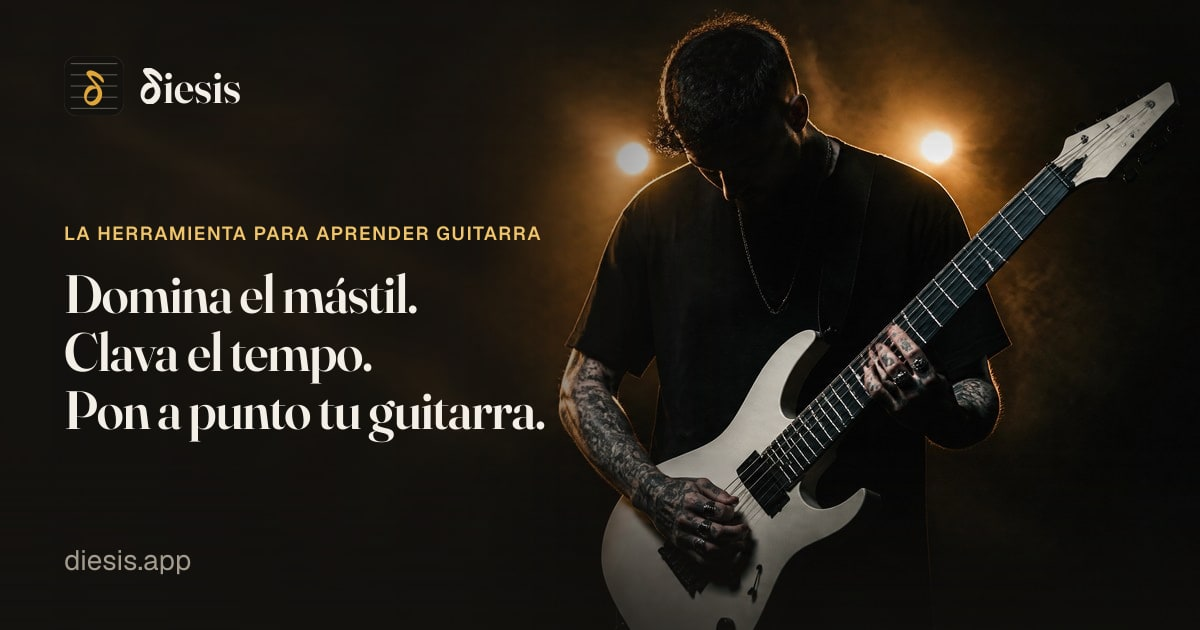
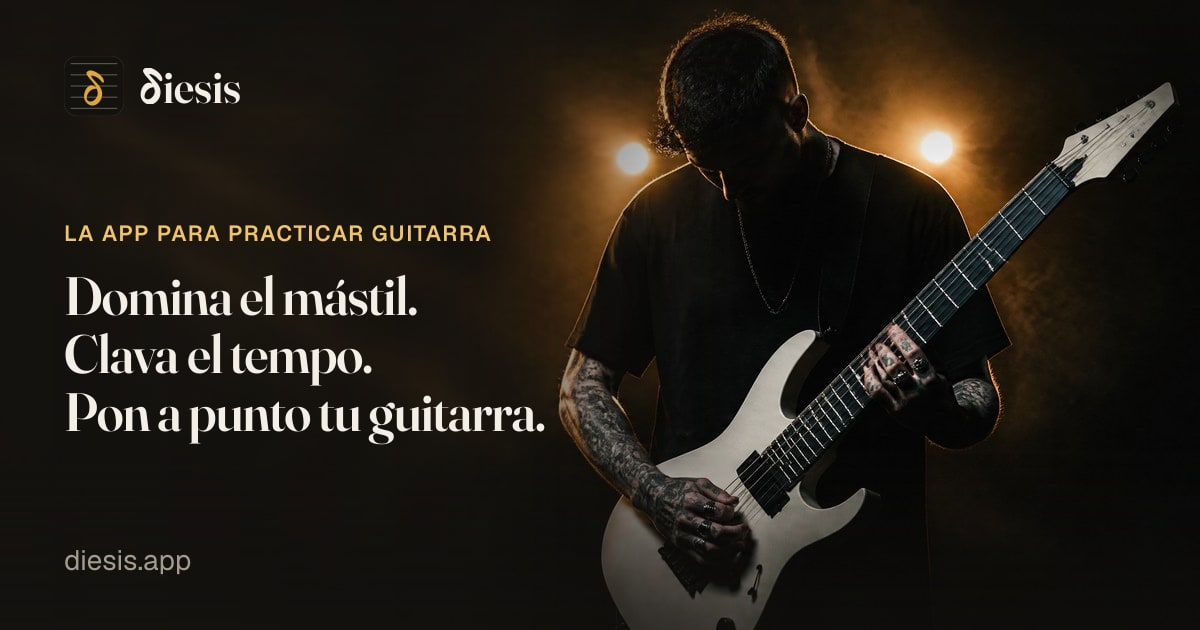
The hero's eyebrow says it: the guitar practice app / la app para practicar guitarra, on the page and its link card. 0.32.5

Changed region(s): [[0.0617, 0.5429, 0.4625, 0.7238], [0.0617, 0.3317, 0.4625, 0.3921], [0.0617, 0.4222, 0.3392, 0.5429]]

diff --git a/lib/i18n.ts b/lib/i18n.ts
@@ -344,7 +344,7 @@ const en: Strings = {
   },
   nav: { tools: "Tools", faq: "FAQ", cta: "Open the app", privacy: "Privacy", about: "About Diesis", areas: { learn: "Learn", practice: "Practice", setup: "Setup" }, learnTools: ["Name the note", "Find the note"], practiceTools: ["The neck", "Metronome", "Backing tracks", "Fingers"], setupTools: ["Strings"], learnSoon: ["Hear the note"], setupSoon: ["Tuner", "My guitars"], soon: "Soon", collapse: "Collapse the sidebar", expand: "Open the sidebar" },
   hero: {
-    eyebrow: "The guitar learning tool",
+    eyebrow: "The guitar practice app",
     h1: ["Know the neck.", "Lock in the tempo.", "Dial in your guitar."],
     lede: "Become the best guitarist you can be.",
     cta: "Open the app",
@@ -1002,7 +1002,7 @@ const es: Strings = {
   },
   nav: { tools: "Herramientas", faq: "Preguntas", cta: "Abrir la app", privacy: "Privacidad", about: "Sobre Diesis", areas: { learn: "Aprender", practice: "Practicar", setup: "Ajuste" }, learnTools: ["Nombra la nota", "Encuentra la nota"], practiceTools: ["El mástil", "Metrónomo", "Backing tracks", "Dedos"], setupTools: ["Cuerdas"], learnSoon: ["Escucha la nota"], setupSoon: ["Afinador", "Mis guitarras"], soon: "Pronto", collapse: "Plegar la barra lateral", expand: "Desplegar la barra lateral" },
   hero: {
-    eyebrow: "La herramienta para aprender guitarra",
+    eyebrow: "La app para practicar guitarra",
     h1: ["Domina el mástil.", "Clava el tempo.", "Pon a punto tu guitarra."],
     lede: "Llega a ser el mejor guitarrista que puedas ser.",
     cta: "Abrir la app",

diff --git a/lib/lang.ts b/lib/lang.ts
@@ -14,7 +14,7 @@ export async function currentStrings(): Promise<Strings> {
 }
 
 /** Query string on every link-preview card: bump it when a card changes, so chat apps fetch it again. */
-export const CARD_VERSION = 5;
+export const CARD_VERSION = 6;
 
 /**
  * What a shared link to an app page shows in a chat: its own description and its own card

diff --git a/CLAUDE.md b/CLAUDE.md
@@ -560,7 +560,9 @@ Todoist project records what is still to do.
   scales, metronome · Diesis" / «App para practicar guitarra: notas del mástil, escalas,
   metrónomo · Diesis», picked from Google's autocomplete ("guitar practice app" and "app para
   practicar guitarra" are real searches with many variants; "guitar practice tools" had none).
-  The landing aims at the broad phrase; each tool page aims at its own narrow one
+  The hero's eyebrow says the same phrase so it is on the page too (0.32.5): "The guitar
+  practice app" / «La app para practicar guitarra», also on `og.jpg`/`og-es.jpg`
+  (`tools/og-card.mjs`). The landing aims at the broad phrase; each tool page aims at its own narrow one
   (`features.pages[*].metaTitle`). They are still guesses with no volumes behind them: check
   Search Console's queries once it has a few weeks of data and adjust. A page that sets its own `openGraph`
   must repeat `images` (Next replaces the object, it does not merge): `/es` pages use

diff --git a/CHANGELOG.md b/CHANGELOG.md
@@ -3,6 +3,12 @@
 Written for the people using it, not for the code. Newest first. Version matches
 `package.json`.
 
+## 0.32.5 — 1 October 2026
+
+- The line above the front page's headline now says what Diesis is in the words people search
+  for: "The guitar practice app" («La app para practicar guitarra»). The picture shown with a
+  shared link says it too.
+
 ## 0.32.4 — 1 October 2026
 
 - The front page now tells search engines what it is about, a guitar practice app (in Spanish,
